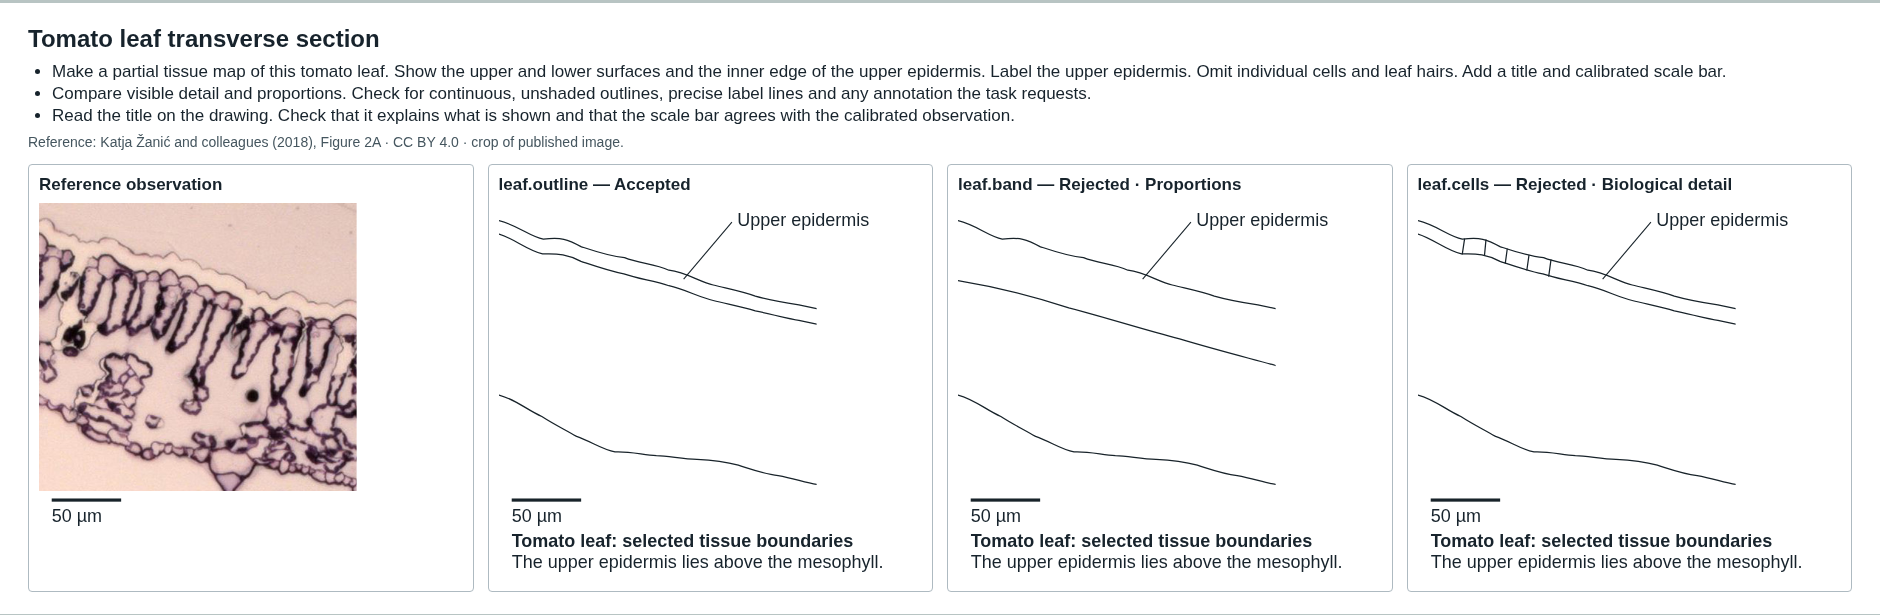
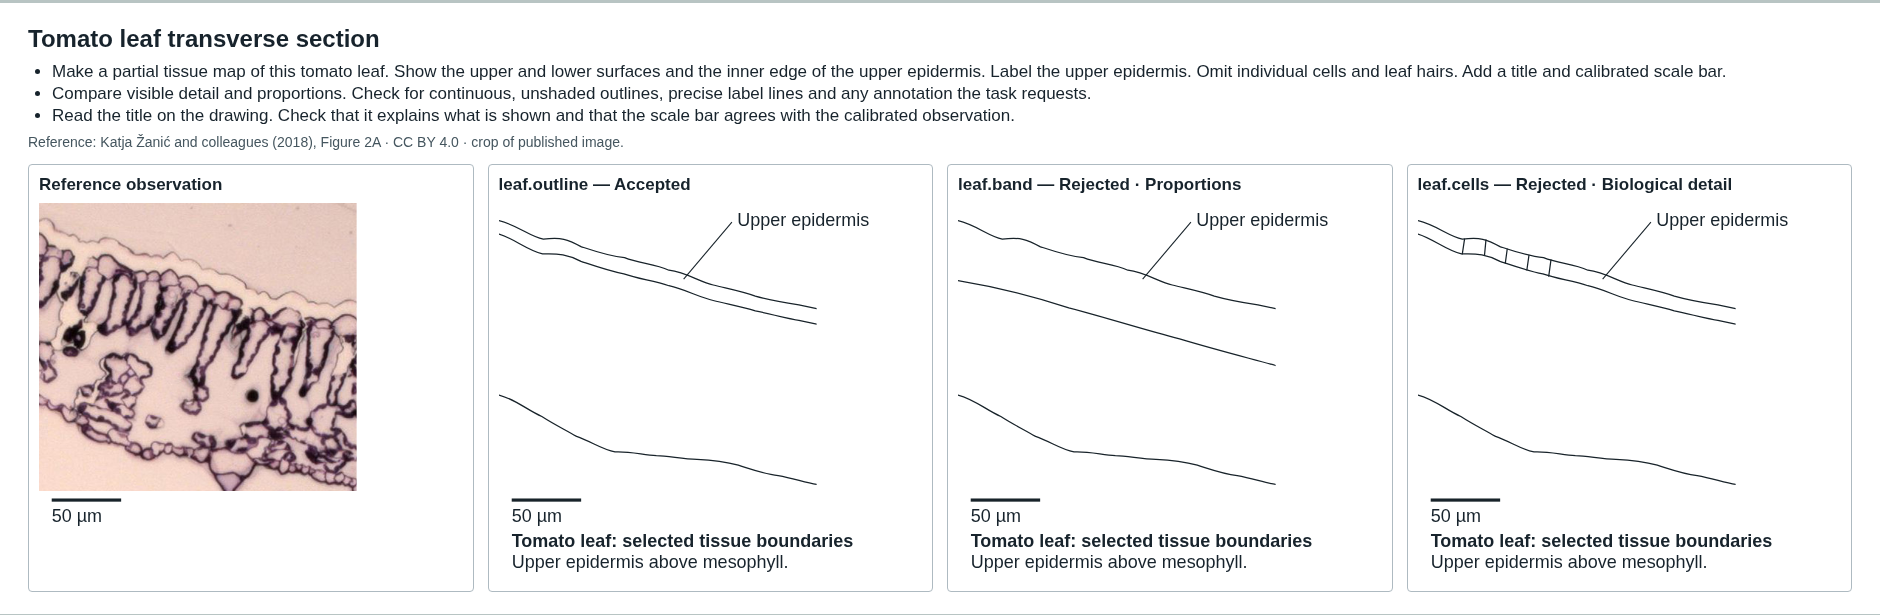
Keep drawing captions clear across fonts

Changed region(s): [[0.7404, 0.8959, 0.9564, 0.9268], [0.4936, 0.8959, 0.7096, 0.9268], [0.2777, 0.8959, 0.4628, 0.9268]]

diff --git a/public/alevel/drawing-bank.js b/public/alevel/drawing-bank.js
@@ -11,7 +11,7 @@
       id: "epidermis", name: "Red onion epidermis", type: "cell", image: "onion-epidermis.webp",
       source: "Cells_from_a_red_onion_epidermal_peel.tif", author: "Adrian J. Hunter", licence: "CC BY-SA 3.0", licenceUrl: bysa("3.0"),
       size: [998,698], crop: [242,70,270,237], label: "Cell wall", target: [461,167],
-      drawingTitle: "Wall outline of one red onion epidermal cell",
+      drawingTitle: "Red onion epidermal cell wall",
       annotation: "The line records the position of the wall.",
       task: "Draw the wall outline of the central pink cell and label the wall. Leave neighbouring cells out. Include a title and a calibrated scale bar.",
       scale: {pixels:357, microns:200, draw:50}, scaleNote: "The entire five-segment bar in the full field spans 357 image units and represents 200 µm.",
@@ -30,7 +30,7 @@
       sourceUrl:"https://doi.org/10.3389/fpls.2018.00086", author:"Katja Žanić and colleagues (2018), Figure 2A", licence:"CC BY 4.0", licenceUrl:"https://creativecommons.org/licenses/by/4.0/",
       size:[1095,612], crop:[100,0,430,390], frameWidth:400, label:"Upper epidermis", target:[350,103], labelStart:[220,18],
       drawingTitle:"Tomato leaf: selected tissue boundaries",
-      annotation:"The upper epidermis lies above the mesophyll.",
+      annotation:"Upper epidermis above mesophyll.",
       task:"Make a partial tissue map of this tomato leaf. Show the upper and lower surfaces and the inner edge of the upper epidermis. Label the upper epidermis. Omit individual cells and leaf hairs. Add a title and calibrated scale bar.",
       scale:{pixels:94,microns:50,draw:50}, scaleNote:"The black bar in the full source panel spans 94 image units and represents 50 µm.",
       observation:"The leaf slopes down from left to right. A narrow upper epidermal band lies above elongated palisade cells. The lower surface follows the loosely arranged tissue. Some leaf hairs extend below the surface.",
@@ -47,7 +47,7 @@
       id:"buttercup",name:"Buttercup root transverse section",type:"plan",image:"drawing-buttercup.webp",
       source:"Ranunculus_root.jpg",author:"Jon Houseman (source credited to Jon Houseman and Matthew Ford)",licence:"CC BY-SA 4.0",licenceUrl:bysa("4.0"),
       size:[840,750],crop:[0,0,840,750],label:"Cortex",target:[715,434],scale:{pixels:123,microns:310,draw:310},scaleNote:"The author identifies the original black bar as 0.31 mm. It spans approximately 123 image units here. 0.31 mm equals 310 µm.",
-      drawingTitle:"Buttercup root tissue map, transverse section",
+      drawingTitle:"Buttercup root, transverse tissue map",
       annotation:"The cortex surrounds the vascular cylinder.",
       task:"Map the root surface, central cylinder and xylem as tissue outlines. Label the cortex and annotate its position relative to the vascular tissue. Add a title and calibrated scale bar.",
       observation:"A broad cortex encloses a small approximately circular central cylinder, about one seventh of the root width. Xylem forms a four-armed figure in its centre.",
